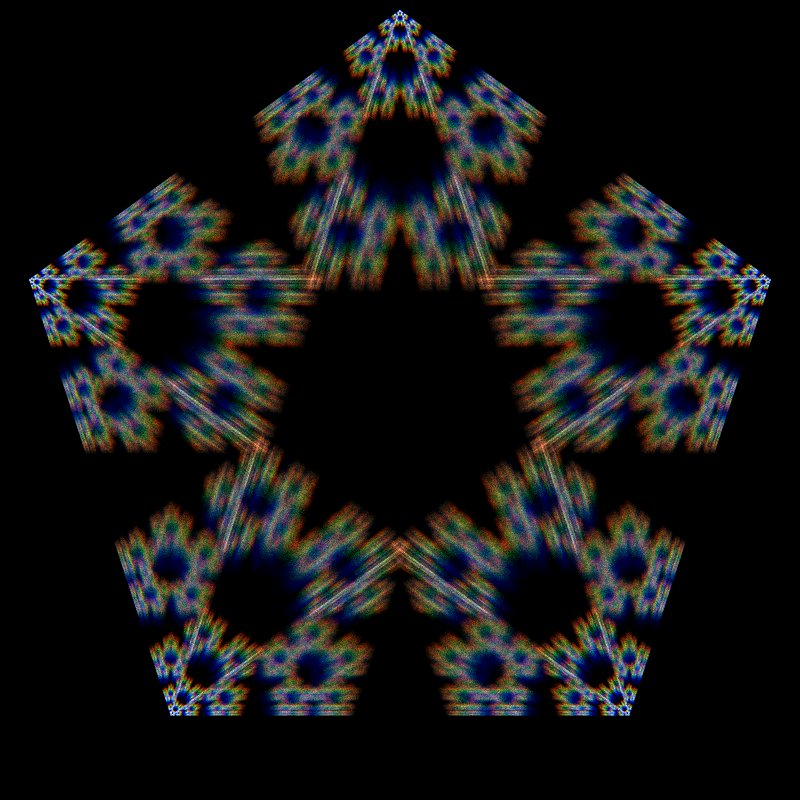
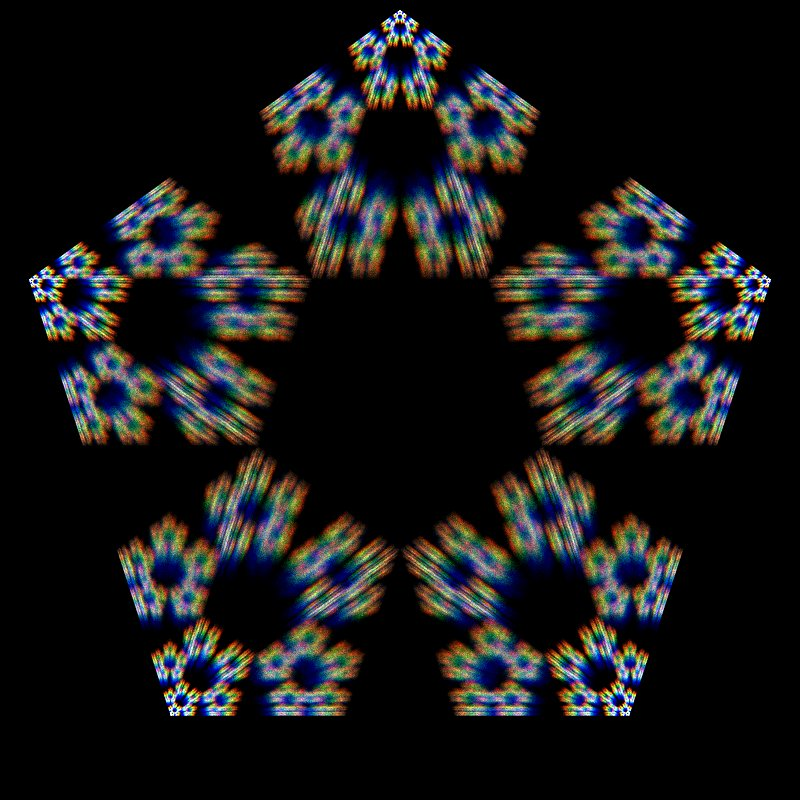
feat: add example simulation

diff --git a/readme.md b/readme.md
@@ -3,3 +3,5 @@
 Simple simulation of the chaos game using Python and Pygame.
 
 You can input number of vertices, and the ratio of the distance between the current point and the vertex to the distance between the current point and the next vertex. The program optionally can calculate the optimal ratio using the formula [here](https://en.wikipedia.org/wiki/Chaos_game#Optimal_value_of_r_for_every_regular_polygon).
+
+![N=5, R=φ-1](simulation.jpg)
